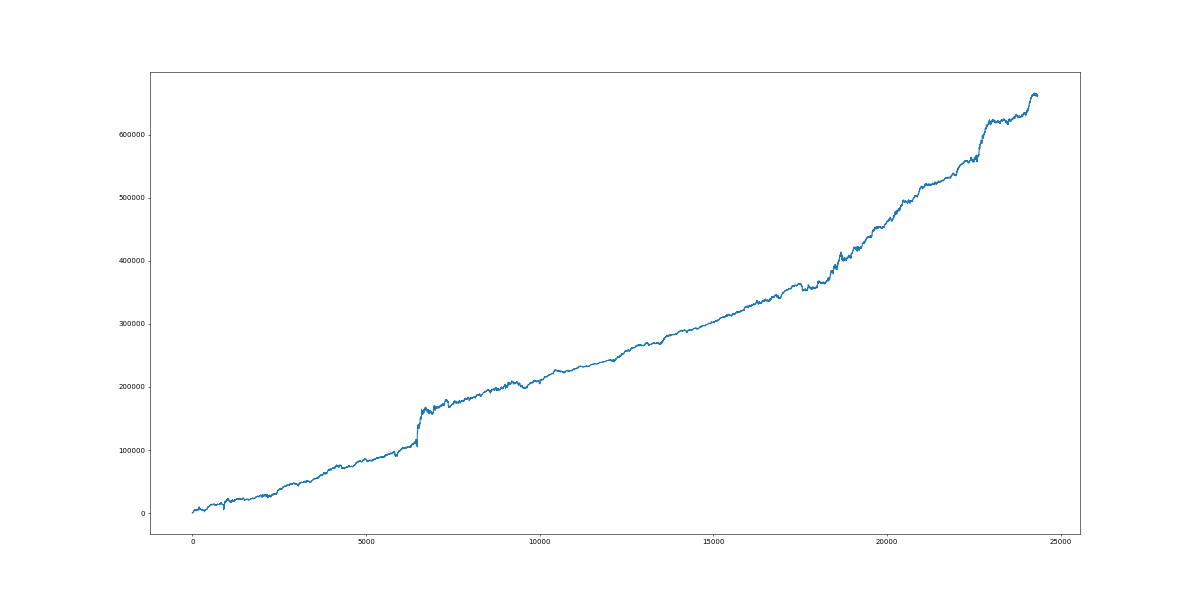
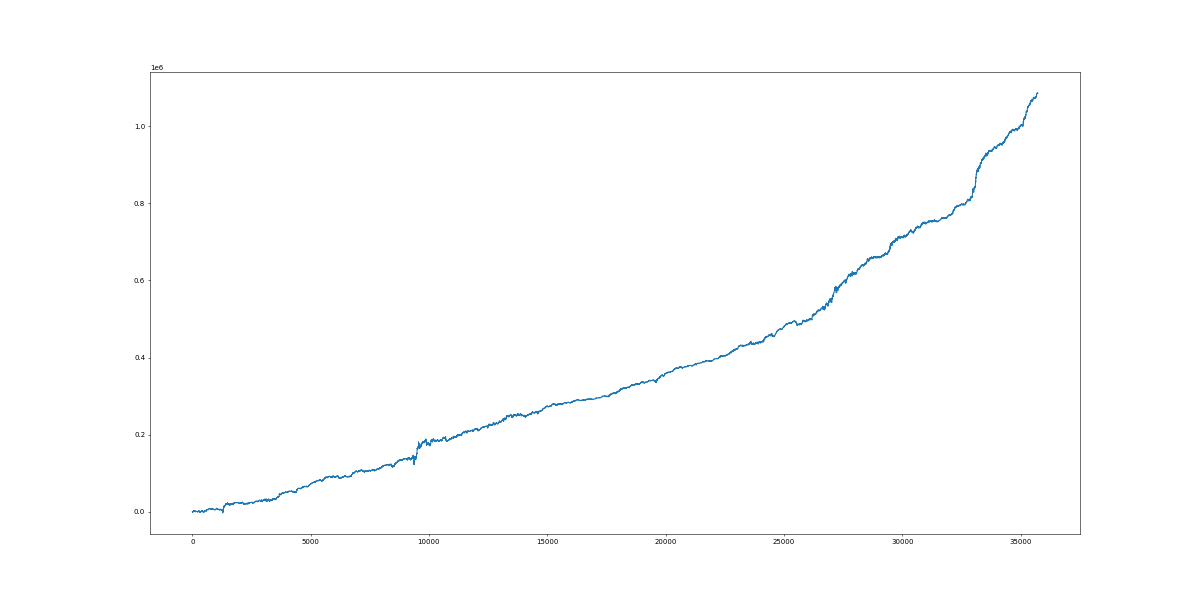
Update パラメータ分析と追加

diff --git a/backtest.py b/backtest.py
@@ -68,8 +68,8 @@ close_minutes1 = 18
 
 analysis_from_minutes2 = 1
 analysis_to_minutes2 = 13
-entry_minutes2 = 19
-close_minutes2 = 44
+entry_minutes2 = 20
+close_minutes2 = 36
 
 analysis_from_minutes3 = 17
 analysis_to_minutes3 = 29
@@ -242,7 +242,7 @@ print("")
 print(start_date, "〜", finish_date, " ")
 print("総利益", add_price_comma(int(sum(profits))), "円  ")
 if pf:
-    print("pf", math.round_down(pf, -2)," ")
+    print("pf", math.round_down(pf, -2), " ")
 if pc:
     print("勝率", math.round_down(pc * 100, 0), "%", " ")
 if ic:

diff --git a/parameter_test.py b/parameter_test.py
@@ -8,14 +8,14 @@ pd_op.display_round_down()
 
 do_deposit = True
 
-for z in range(0, 13):
+for z in range(21, 45):
 
     result_data = []
 
-    analysis_from_time = z
+    analysis_from_time = 1
     analysis_to_time = 13
-    entry_time = 19
-    close_time = 44
+    entry_time = 20
+    close_time = z
 
     result_data.append("parameter : ")
     result_data.append(f"analysis_from_time {analysis_from_time}")
